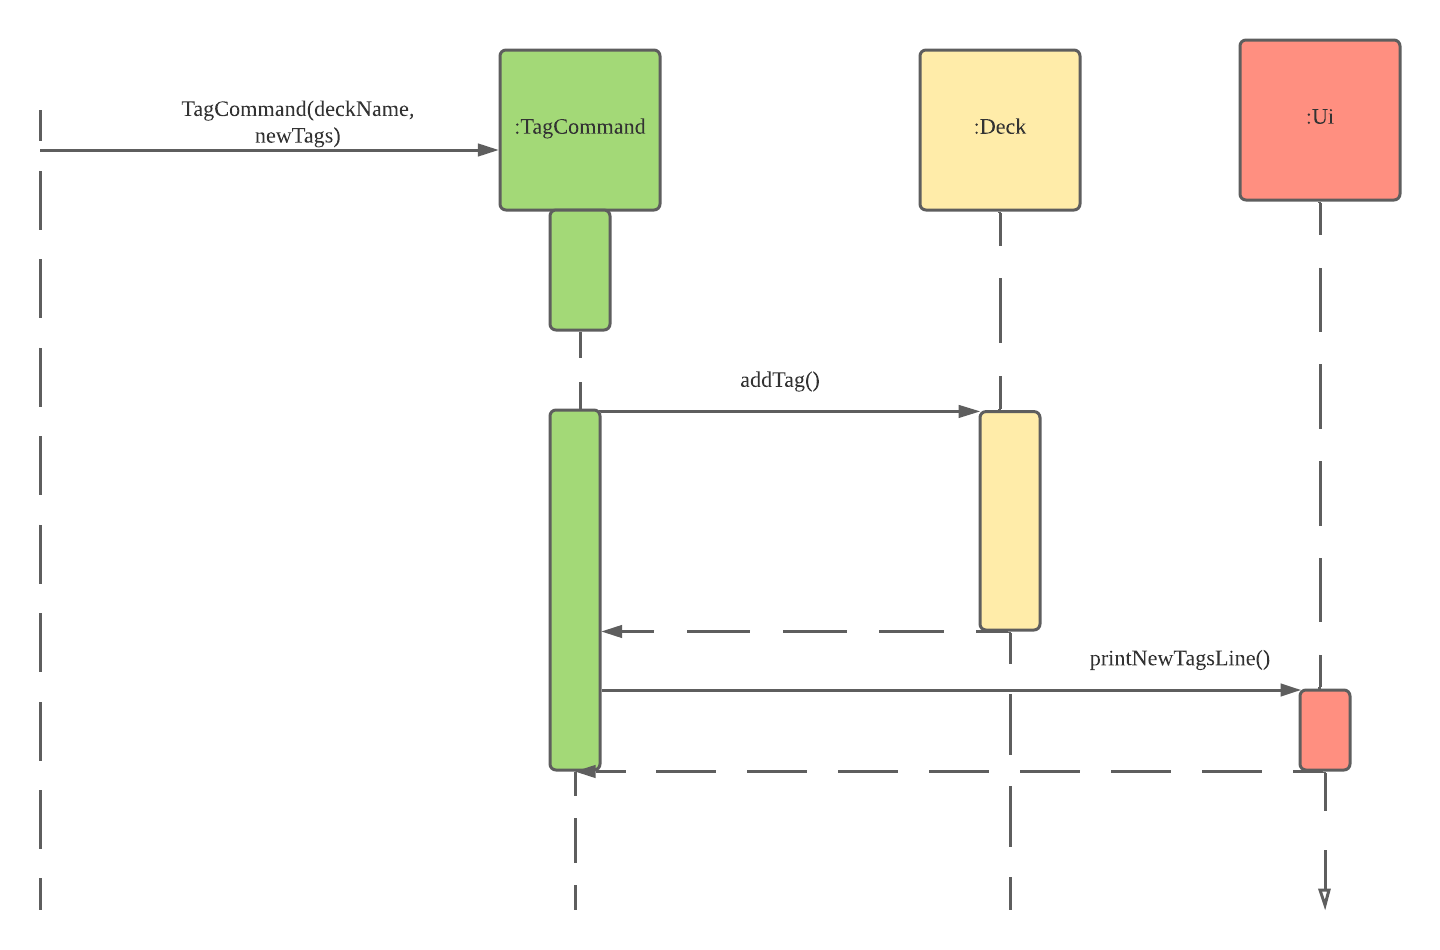
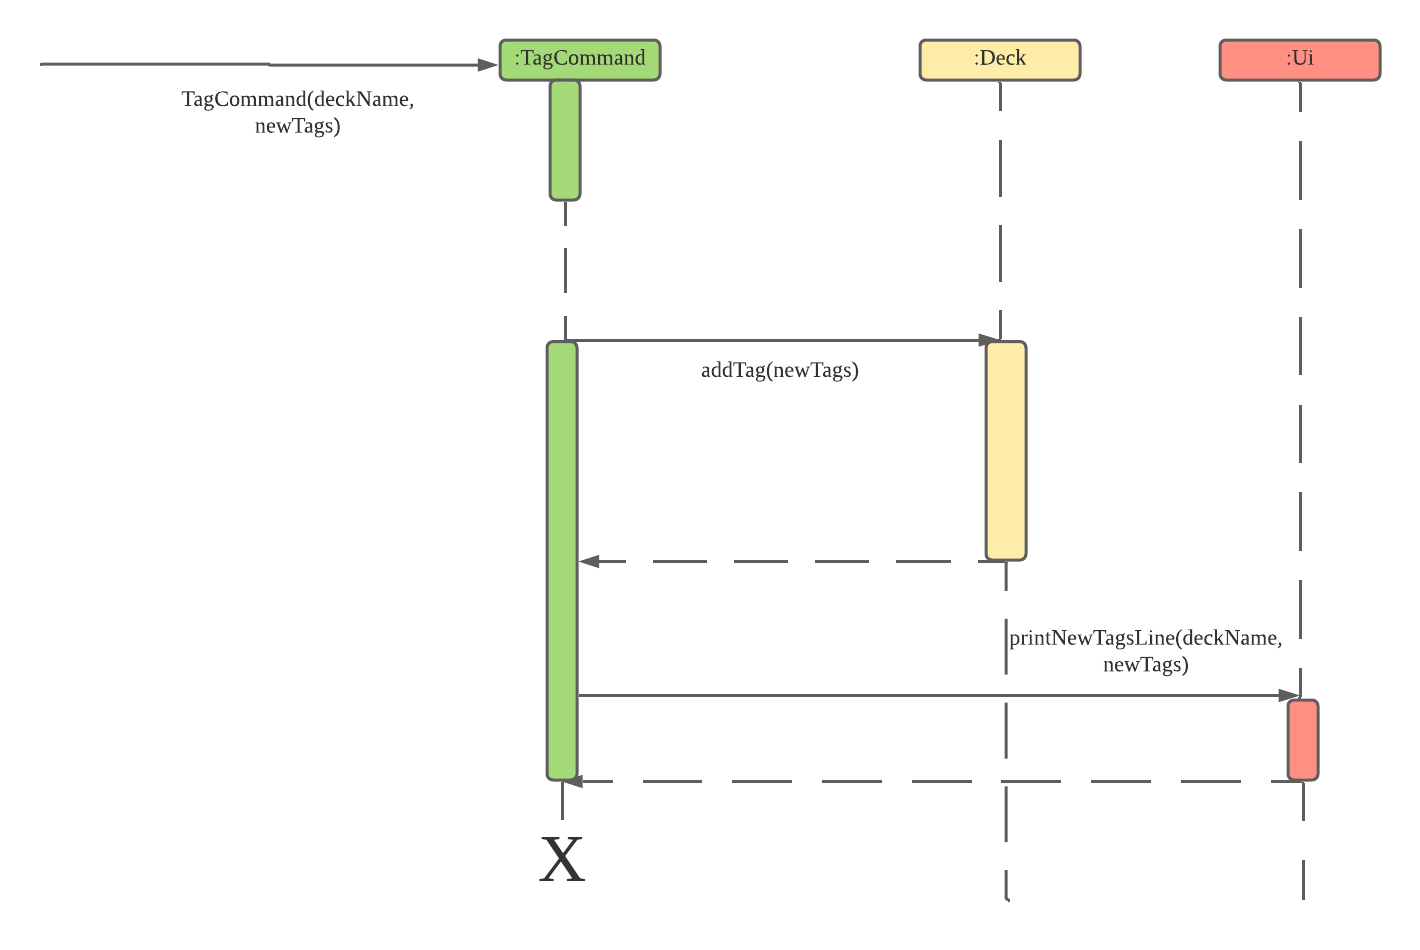
update UG, DG and PPP

diff --git a/docs/team/alwaysnacy.md b/docs/team/alwaysnacy.md
@@ -2,6 +2,46 @@
 # Huynh Thi Thu Trang - Project Portfolio Page
 
 ## Overview
-
+eCardnomics is a **single-use desktop flashcard application to create, manage, modify and interact with new flashcards 
+ via Command
+Line Interface (CLI)**. Its target user is Junior College Economics students with high volume of terms to remember, 
+ eCardnomics can be useful to anyone who want to store and interact with the large amount of information he/she learns. 
+ Flashcards with same field of information can be group into decks, which is a collection of similar Flashcards.
+ Each deck can also have tags to give a summary of the information contained
+in the deck and what field of information the deck is relevant. Furthermore, eCardnomics allows user to play and 
+interact
+with the Flashcards on a daily basis to enhance users' memory. Finally, Flashcards can be exported to PowerPoint format
+which helps users find the learning process more interesting and visually satisfying.
 
 ### Summary of Contributions
+[Code contribution](https://nus-cs2113-ay2021s1.github.io/tp-dashboard/#breakdown=true&search=alwaysnacy)
+
+In v1.0:
+* Implemented CreateCommand, DecksCommand and DeletedDeckCommand in DeckCommand
+* Add more methods in NormalParser() to follow the Code Quality guidelines
+* Added more JUnit tests for **`CreateCommand`** and  **`DecksCommand`**
+
+##### Enhancements implemented
+
+In v2.0:
+* Implemented the Tag features for Deck to make it easier to group similar decks and find them
+    * Add tag to the deck on creation or an existing deck
+    * Untag an existing tag of the decks
+* Implemented SearchCommand to find decks that are relevant to interest field
+    * search for similar words in tag field of deck
+* Add more JUnit tests for all children of DeckCommand
+
+In v2.1:
+* Make deck only accept unique name
+* Make Tag feature more reliable and efficient by eliminating duplicates and spaces
+
+#### Contributions to documentation
+
+* Wrote guidelines for all the Command I have implemented.
+* Review other section.
+
+#### Contributions to the DG
+
+* Wrote the section for the **`Tag`** in Enhancement Features.
+* Draw diagram for Overall Logic of the diagram
+* Add terms to glossary.

diff --git a/docs/DeveloperGuide.md b/docs/DeveloperGuide.md
@@ -115,8 +115,8 @@ respective parser. All are children classes of abstract class Parser, where ther
 Theses three methods will be reused in the children classes based on the current mode.
  
  Three Parsers will parse inputs from user and turns them to valid arguments for Command object creation.
- NormalParser will create NormalCommand, DeckParser will create DeckCommand and GameParser will create GameCommand.
- And all three can create everywher Command such as ExitCommand.
+ NormalParser will return NormalCommand, DeckParser will return DeckCommand and GameParser will return GameCommand.
+ And all three can create everywhere Command such as ExitCommand.
  
 
 #### Commands
@@ -158,7 +158,7 @@ Notice that the same **`StartCommand`** class above is indicated as being in bot
    word being parsed as `start` will in turn call **`NormalParser`**'s *`parseCommand()`* method, supplementing it with
     **`DeckParser`**'s Deck class field object as the `arguments` String. 
 
-##### Command sequence
+##### Parser and Command sequence
 
 The **`Parser`** classes play important roles in execution of specific commands, e.g. **`CreateCommand`**, because
  they define methods that check and ensure the conformity of user input to the commands' expected input. Below is a
@@ -324,9 +324,9 @@ The purpose of this feature is to provide a mean to group the decks based on the
 and search for relevant decks related to one or more relevant subjects in a robust way. Each created deck will
 tagged to their respective field.
 
-![DG-Implementation-Features-TagArchitecture](./images-dg/TagFeature-UML.png?raw=true)
+![DG-Implementation-Features-TagArchitecture](./images-dg/Tag-feature.png?raw=true)
 
-The user can also modify to tags of the decks by using tag or untag command, and uses search by tag to find
+The user can also modify the tags of the decks by using tag or untag command, and uses search by tag to find
 a group of decks he/she is interested in.
 
 ![DG-Implementation-Features-TagSequence](./images-dg/Tag.png?raw=true)
